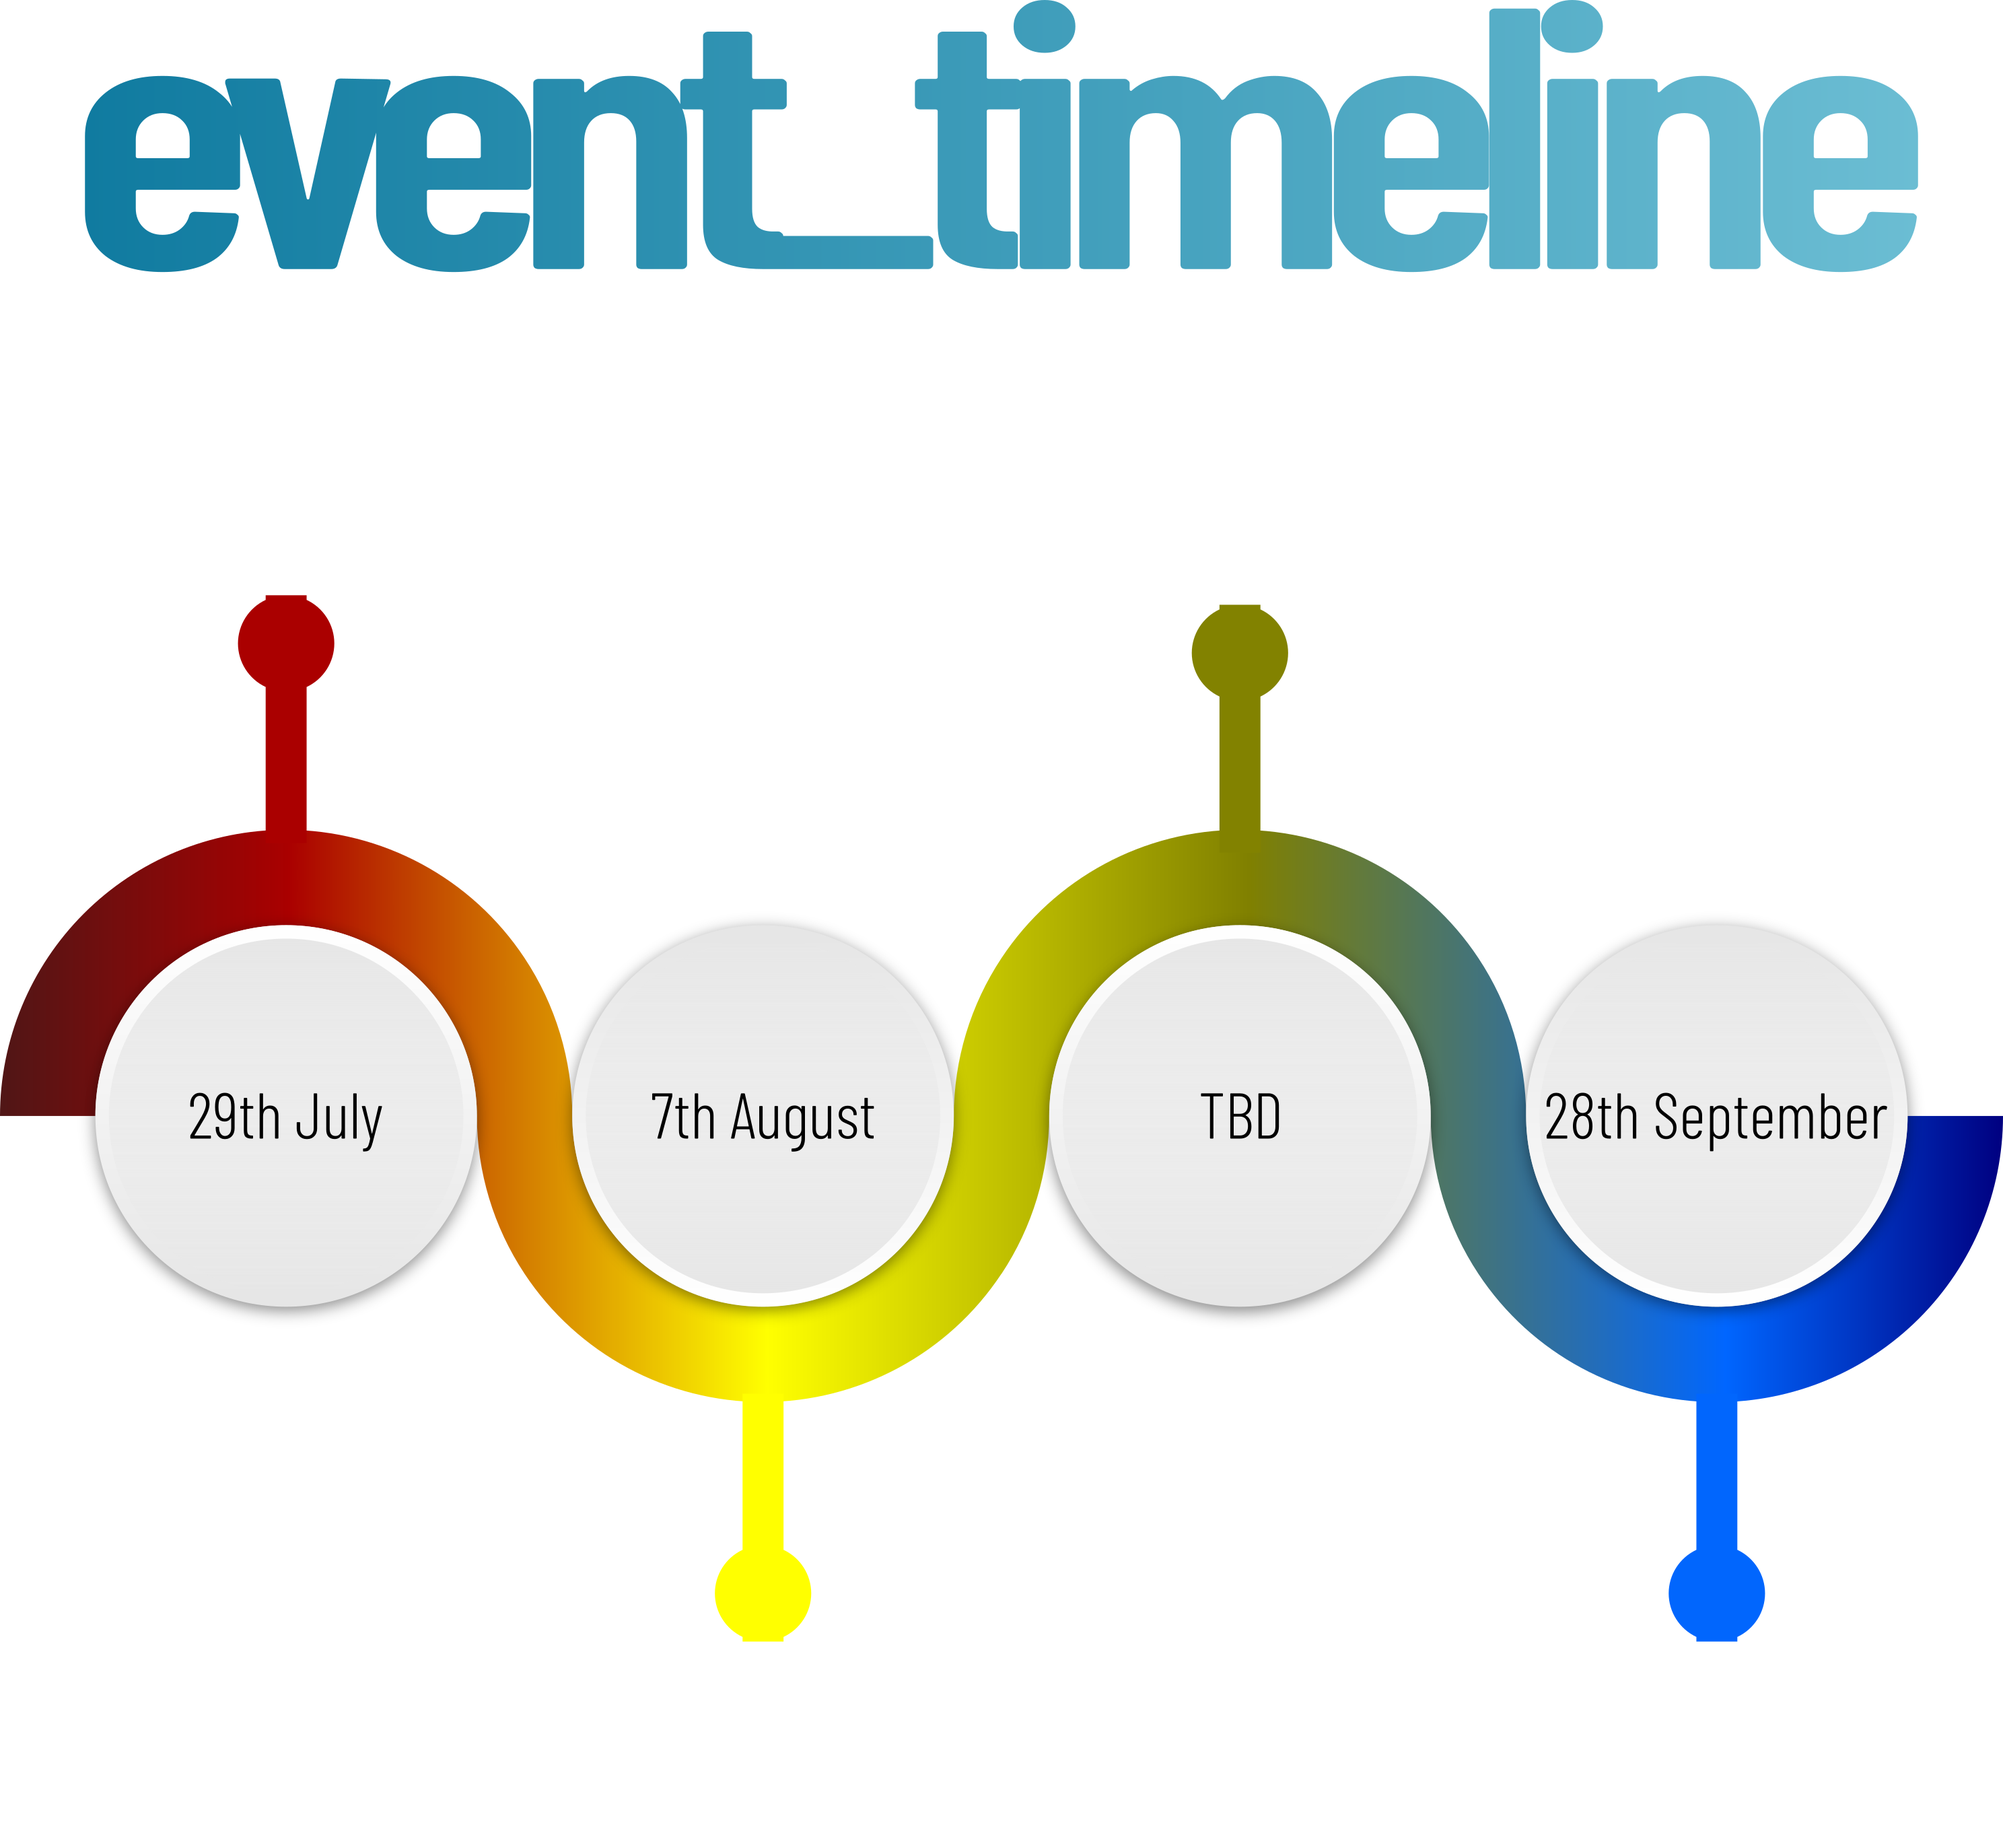
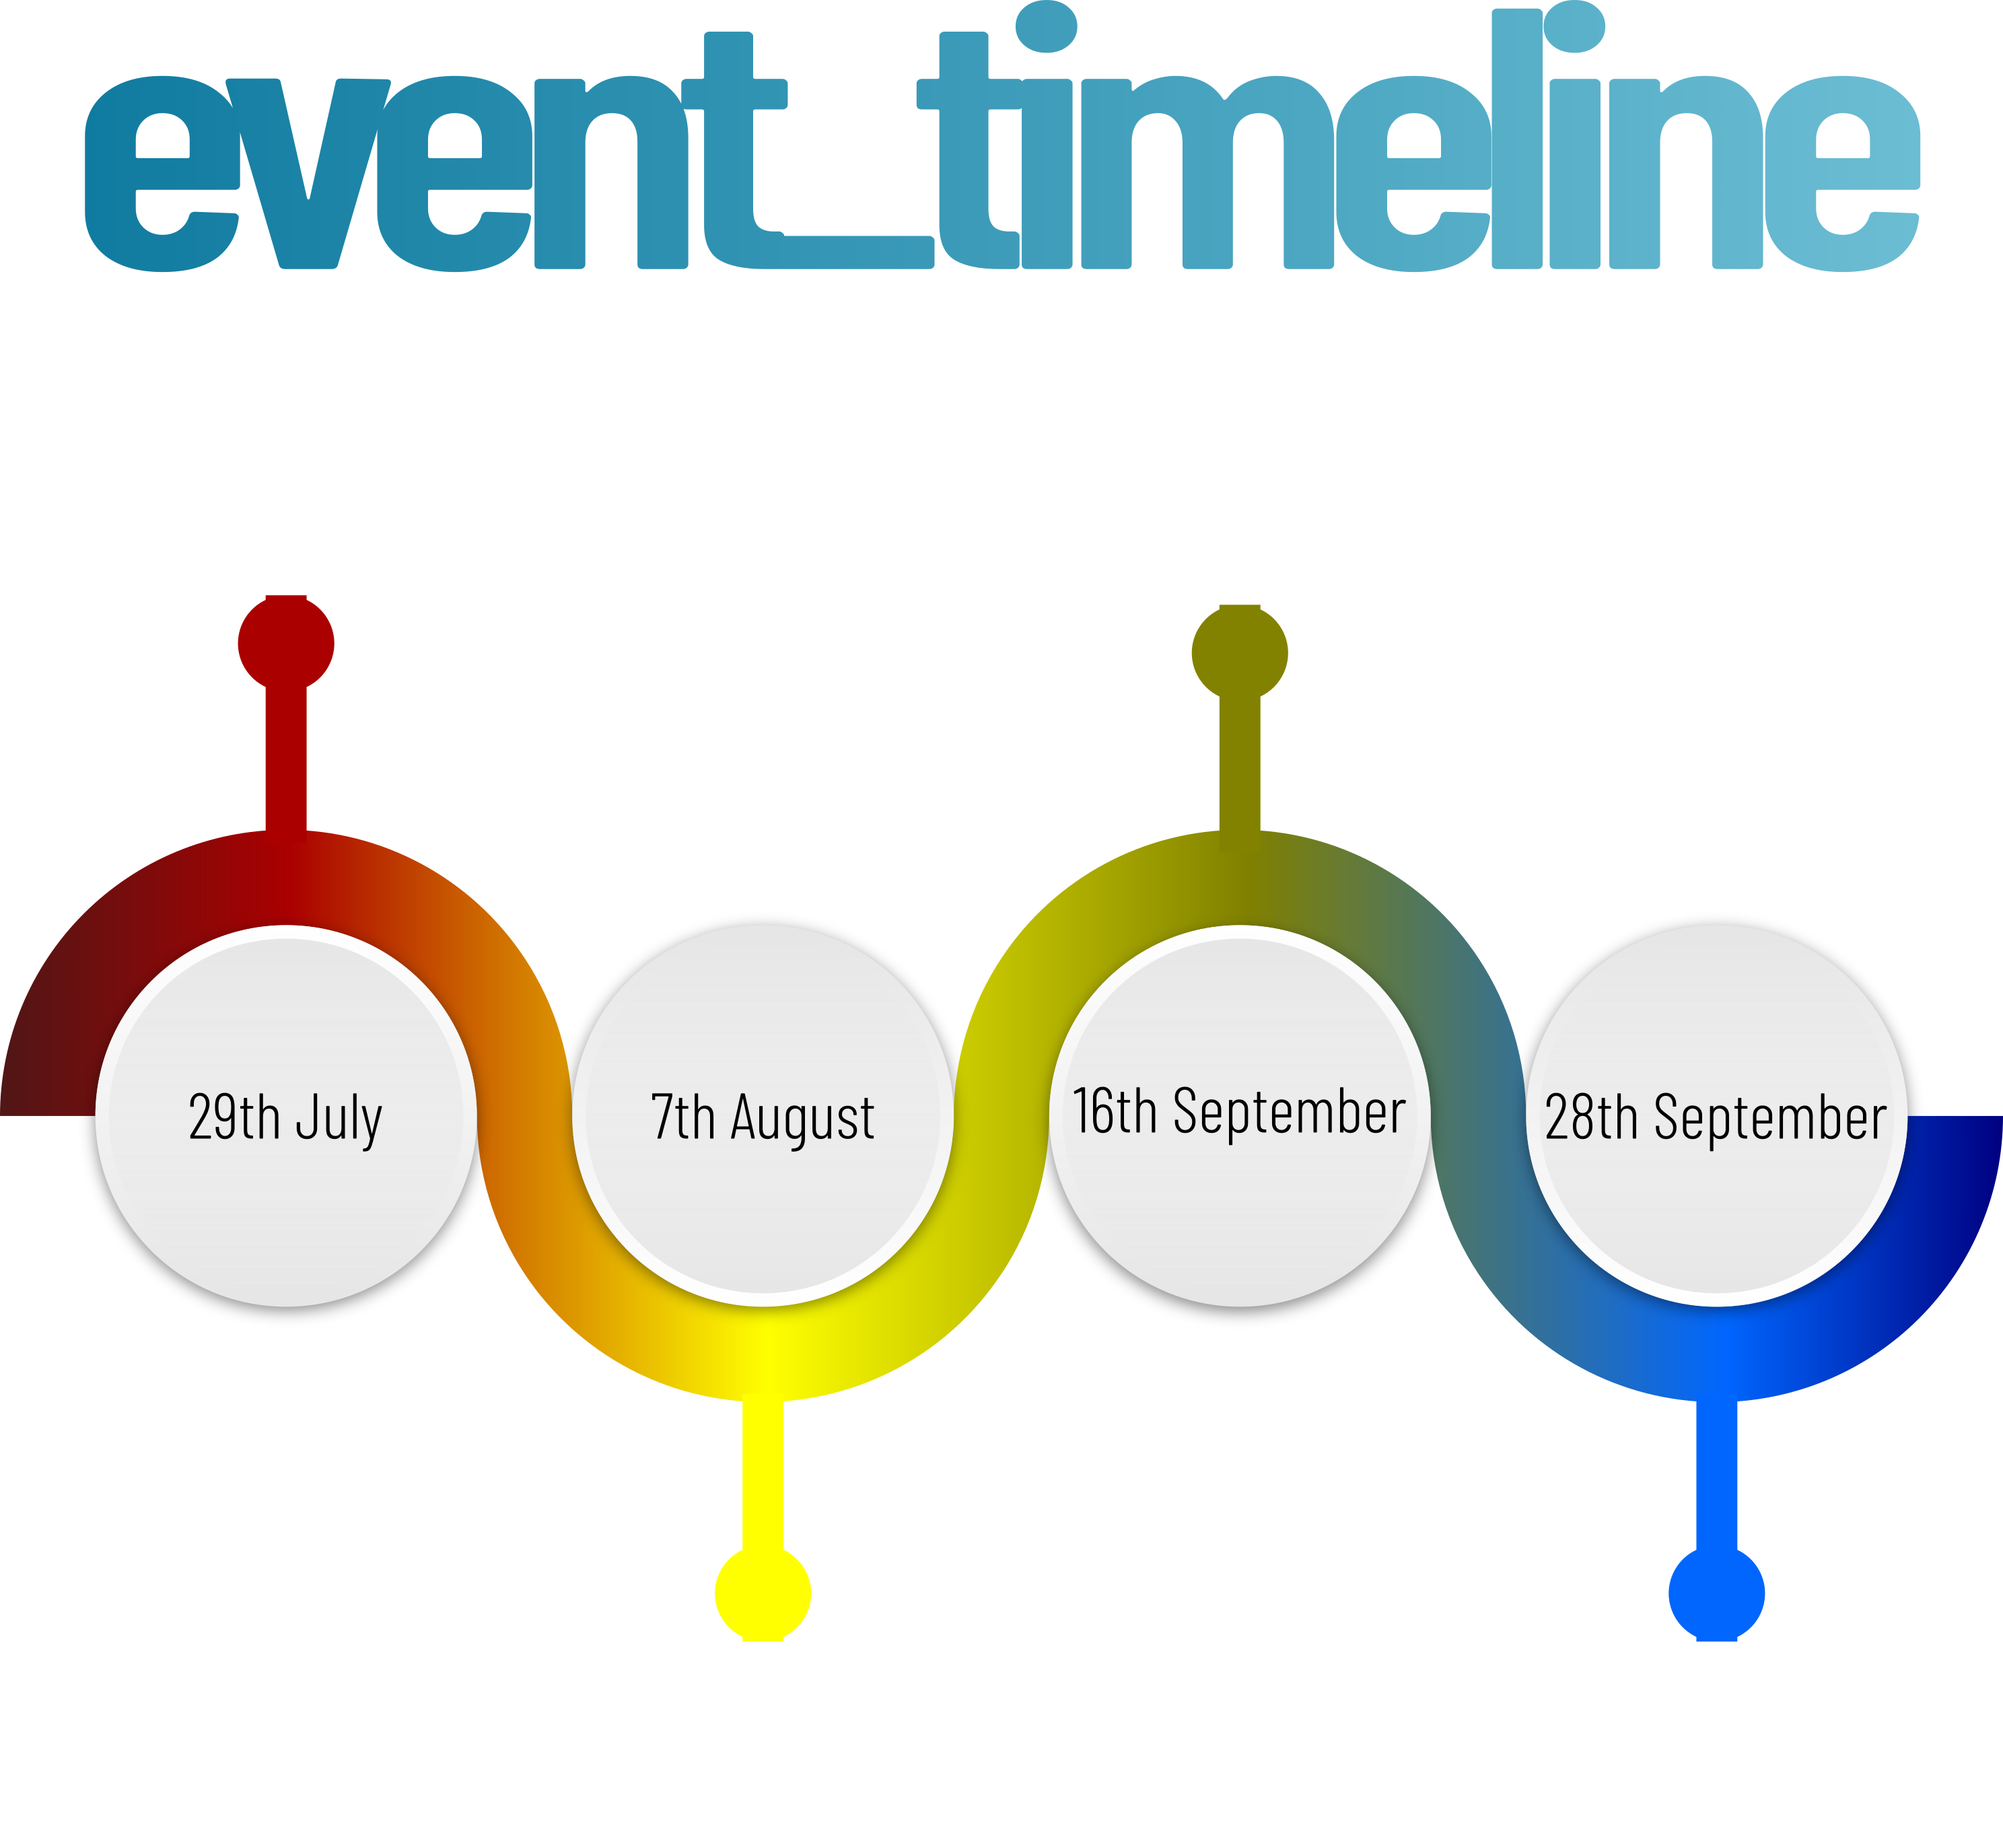
changed navbar links, ticketing partner link and timeline

Changed region(s): [[0.5312, 0.5892, 0.6875, 0.6202], [0.875, 0.062, 0.9062, 0.124]]

diff --git a/_includes/navbar.html b/_includes/navbar.html
@@ -9,16 +9,16 @@
     <div class="collapse navbar-collapse" id="navbarNavDropdown">
         <ul class="navbar-nav ml-auto">
             <li class="nav-item active">
-                <a class="nav-link" href="#landing">Home</a>
+                <a class="nav-link" href="/index.html/#landing">Home</a>
             </li>
             <li class="nav-item">
-                <a class="nav-link" href="#about">About Us</a>
+                <a class="nav-link" href="/index.html/#about">About Us</a>
             </li>
             <li class="nav-item">
-                <a class="nav-link" href="#timeline">Timeline</a>
+                <a class="nav-link" href="/index.html/#timeline">Timeline</a>
             </li>
             <li class="nav-item">
-                <a class="nav-link" href="#contact">Contact Us</a>
+                <a class="nav-link" href="/index.html/#contact">Contact Us</a>
             </li>
             <li class="nav-item">
                 <a class="nav-link" href="/faq.html">FAQs</a>

diff --git a/_includes/banner.html b/_includes/banner.html
@@ -6,15 +6,12 @@
         <h3 class="font-weight-bold px-2 banner-heading text-center">
             Registrations now open!
         </h3>
-        <h4 class="px-2 banner-heading text-center">
-            Early bird offer ends on 16<sup>th</sup> September.
-        </h4>
         <h4 class="banner-heading text-center">
             Apply now via our official ticketing partner:
         </h4>
         <div class="ticket-parent">
-            <a class="btn ticket-btn" href="https://www.thecollegefever.com/events/megathon-2019-onsite" target="_blank">
-                The College Fever
+            <a class="btn ticket-btn" href="https://www.meraevents.com/event/megathon-2019" target="_blank">
+                Mera Events
             </a>
             <!-- UNCOMMENT WHEN STUMAGS IS UP AND RUNNING, AND ADD AN 'S' UP THERE -->
             <!-- <a class="btn ticket-btn" href="https://www.stumagz.com/megathon-2019-onsite/" target="_blank">
